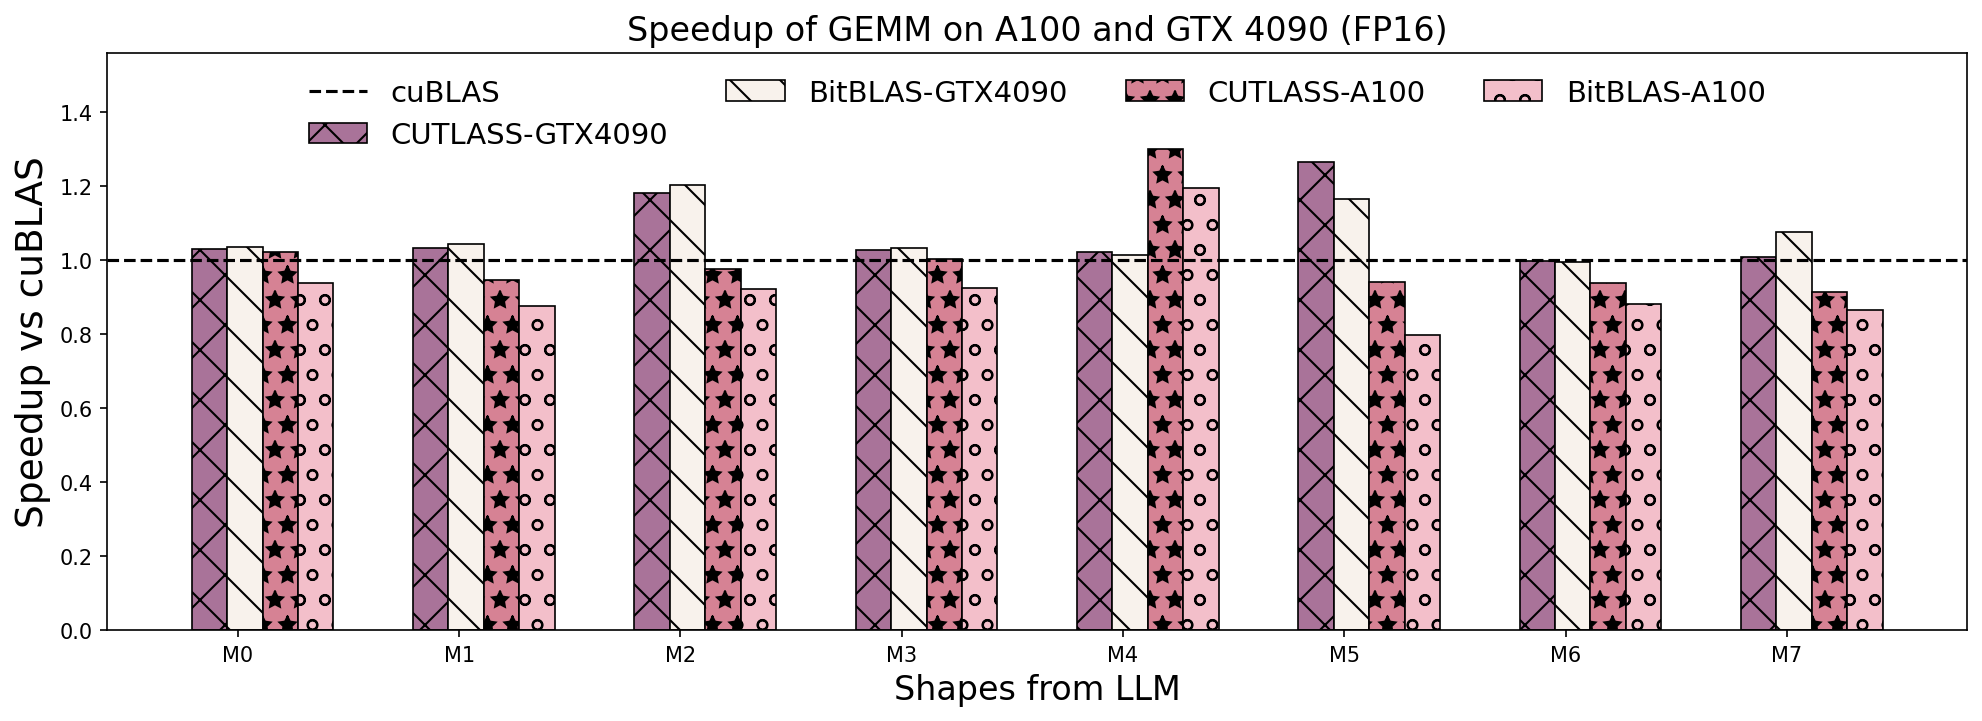
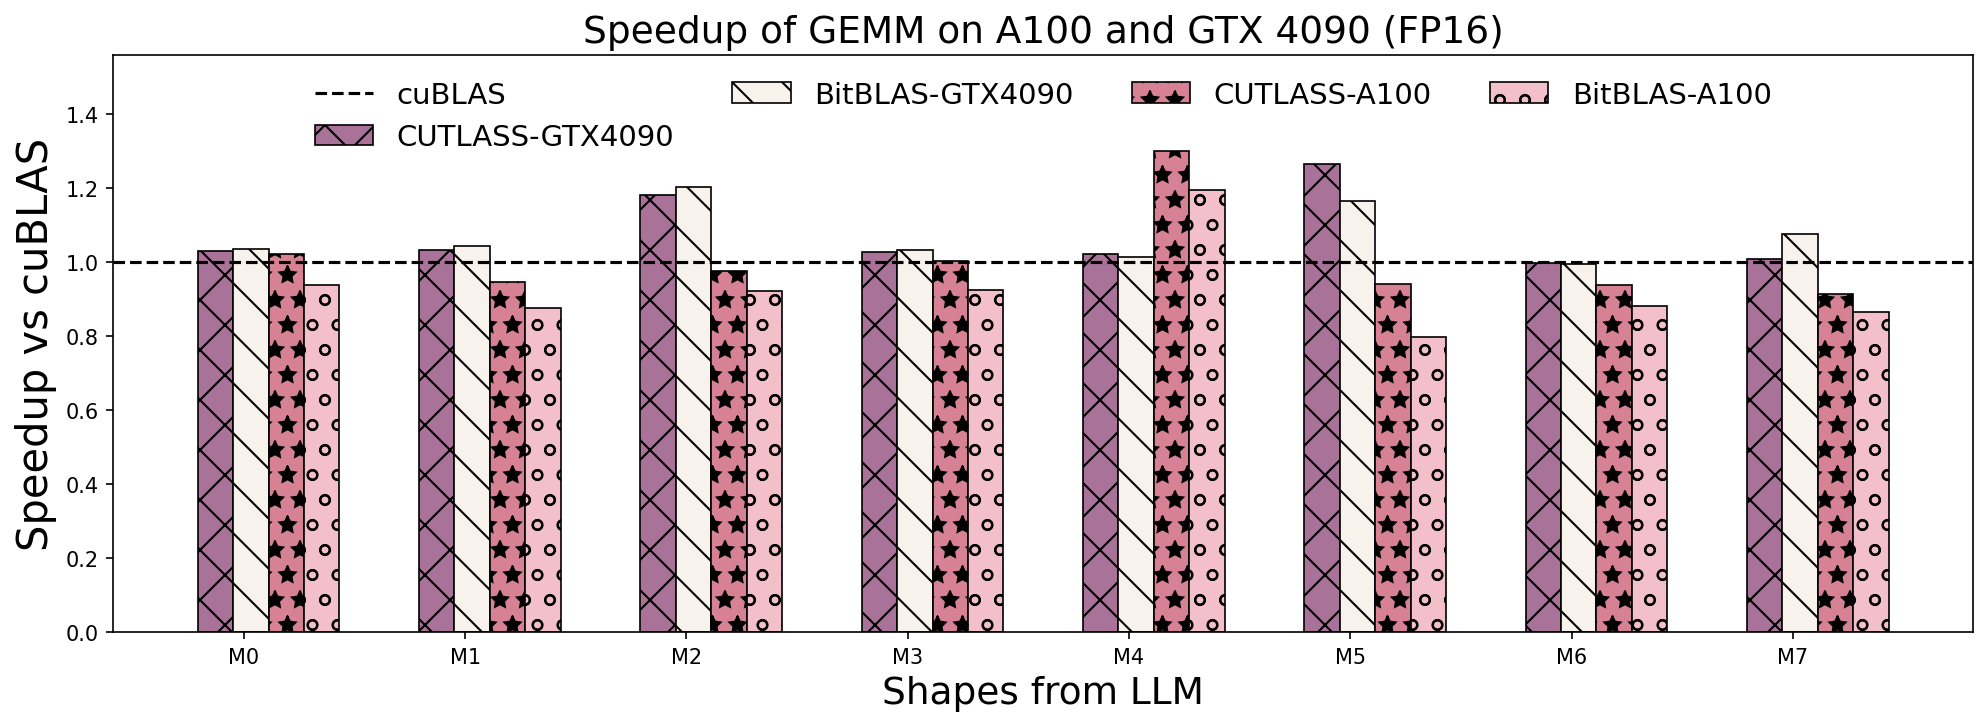
Update figure labels and titles for GEMM speedup plots

Changed region(s): [[0.0, 0.1831, 1.0, 0.9764], [0.0616, 0.0, 0.9849, 0.2136], [0.0308, 0.1221, 0.0616, 0.1831]]

diff --git a/figures/operator_consistent_with_vendor_fp16.py b/figures/operator_consistent_with_vendor_fp16.py
@@ -99,8 +99,8 @@ ax.legend(
     frameon=False,
 )
 # X-axis and labels
-ax.set_xlabel("Shapes from LLM", fontsize=16)
-ax.set_ylabel("Speedup vs cuBLAS", fontsize=18)
+ax.set_xlabel("Shapes from LLM", fontsize=18)
+ax.set_ylabel("Speedup vs cuBLAS", fontsize=20)
 ax.set_xticks(x + len(speed_up_data) * bar_width / len(times_data))
 ax.set_xticklabels(providers)
 ax.grid(axis="y", linestyle="--", linewidth=0.5)
@@ -109,8 +109,8 @@ ax.grid(axis="y", linestyle="--", linewidth=0.5)
 ax.grid(False)
 
 # add a title
-plt.title("Speedup of GEMM on A100 and GTX 4090 (FP16)", fontsize=16)
+plt.title("Speedup of GEMM on A100 and GTX 4090 (FP16)", fontsize=18)
 
 # Save the plot to a file
 plt.savefig("pdf/op_benchmark_consistent_gemm_fp16.pdf")
-plt.savefig("png/op_benchmark_consistent_gemm_fp16.png",  bbox_inches='tight', bbox_inches='tight', transparent=False, dpi=150)
+plt.savefig("png/op_benchmark_consistent_gemm_fp16.png", bbox_inches='tight', transparent=False, dpi=150)

diff --git a/figures/operator_consistent_with_vendor_int8.py b/figures/operator_consistent_with_vendor_int8.py
@@ -99,8 +99,8 @@ ax.legend(
     frameon=False,
 )
 # X-axis and labels
-ax.set_xlabel("Shapes from LLM", fontsize=15)
-ax.set_ylabel("Speedup vs cuBLAS", fontsize=18)
+ax.set_xlabel("Shapes from LLM", fontsize=18)
+ax.set_ylabel("Speedup vs cuBLAS", fontsize=20)
 ax.set_xticks(x + len(speed_up_data) * bar_width / len(times_data))
 ax.set_xticklabels(providers)
 ax.grid(axis="y", linestyle="--", linewidth=0.5)
@@ -109,7 +109,7 @@ ax.grid(axis="y", linestyle="--", linewidth=0.5)
 ax.grid(False)
 
 # add a title
-plt.title("Speedup of GEMM on A100 and GTX 4090 (INT8)", fontsize=16)
+plt.title("Speedup of GEMM on A100 and GTX 4090 (INT8)", fontsize=18)
 
 # Save the plot to a file
 plt.savefig("pdf/op_benchmark_consistent_gemm_int8.pdf")
